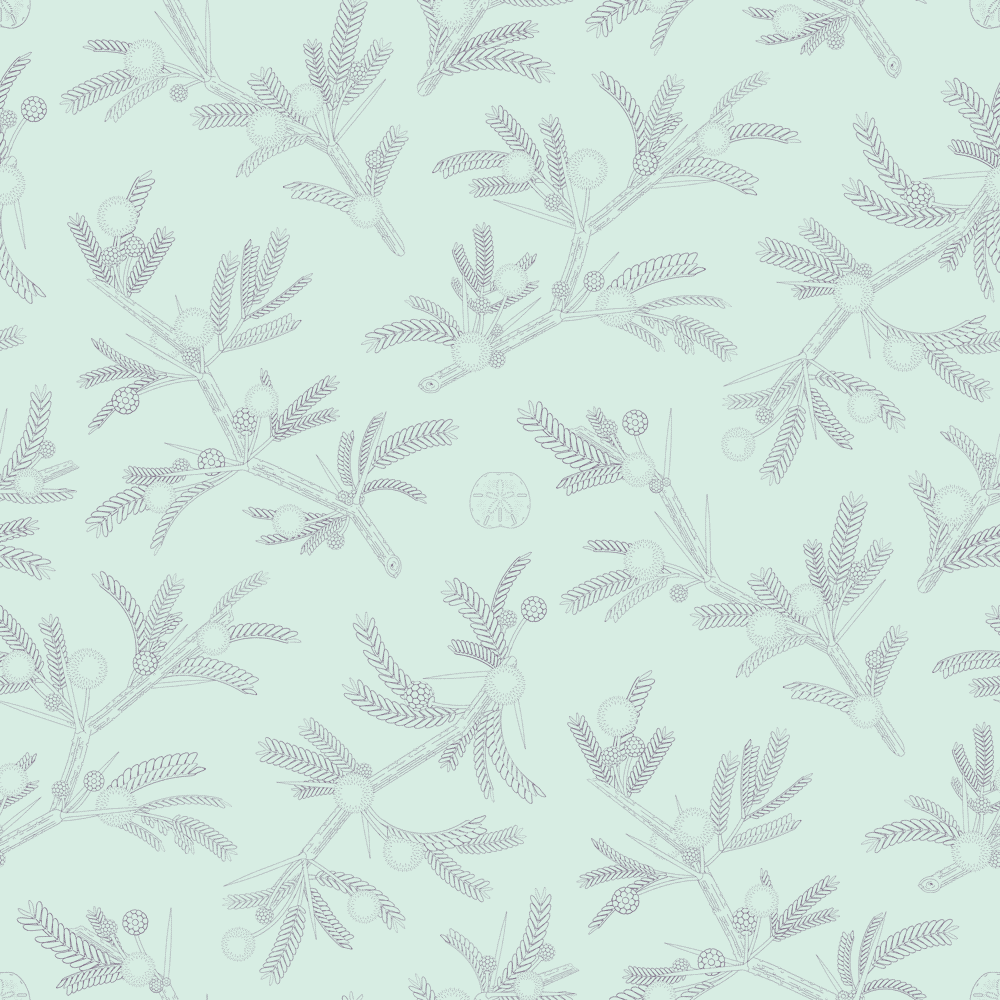
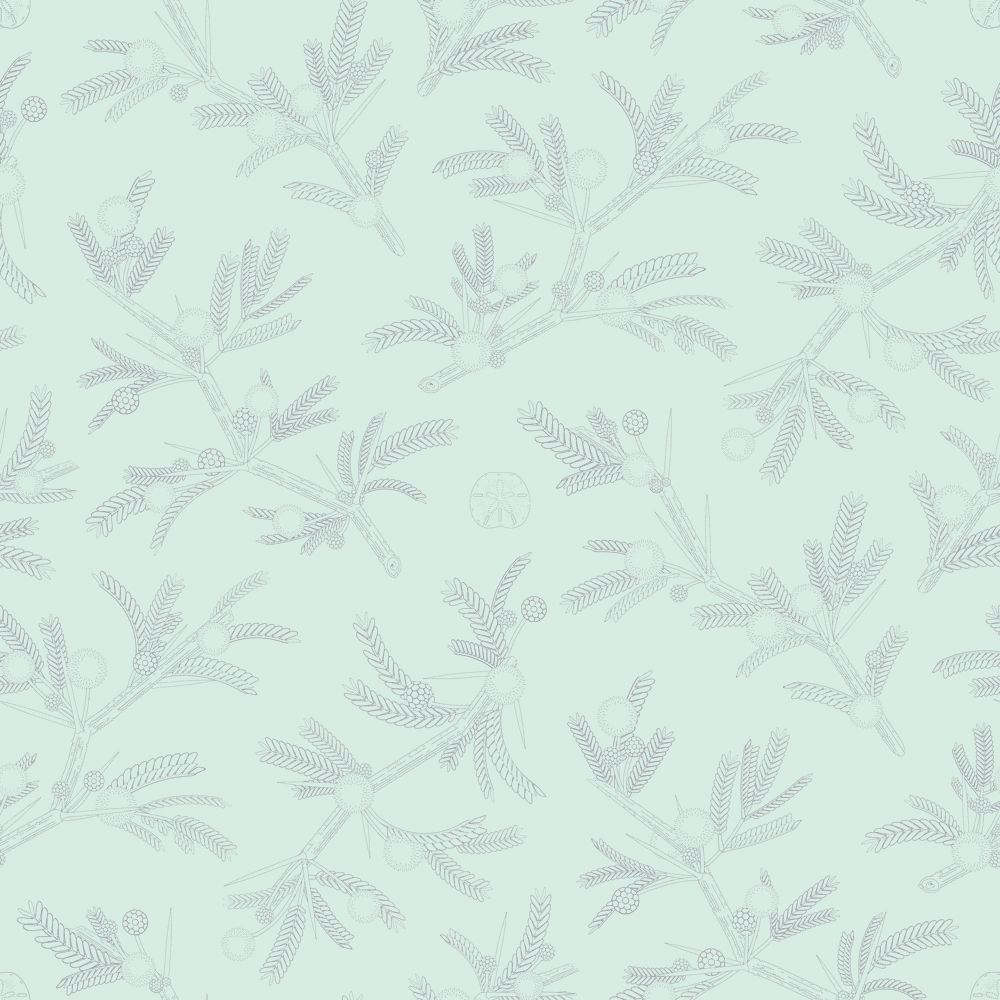
bg tile

diff --git a/index.html b/index.html
@@ -93,8 +93,48 @@
 </div>
 
 <section class="clearfix max-width-4 mx-auto mt4 center mb4 py4 h3">
+	<p class="mt0 mb0 bold uppercase">While in Mexico</p>
+	<p class="mt0 mb1 light">Remember</p>
+	<p class="mt0 mb4 light"><img src="resort-icon.svg" width="24" height="24" alt=""></p>
+	<div class="clearfix">
+	<div class="sm-col sm-col-6 px4 rule">
+		<p class="bold uppercase mb0">Our Festivities</p>
+		<p class="mt1 mb3 light">take place in La Esmeralda. Join us for all-white attire BBQ Feb 3rd, 6-9pm at the pool!</p>
+		<p class="bold uppercase mb0">Shopping in Cozumel</p>
+		<p class="mt1 mb3 light">is a short boat ride away. Pesos ensure the best prices — find a currency exchange in the airport.</p>
+		<p class="bold uppercase mb0">Your presence is our gift</p>
+		<p class="mt1 mb3 light">but if you insist, you can send us a gift from <a href="gift">mikeandmisa.com/gift</a></p>
+	</div>
+	<div class="sm-col sm-col-6 px4">
+		<p class="bold uppercase mb0">Set Up Restaurant Reservations</p>
+		<p class="mt1 mb3 light">and schedule your ride to the airport for your return flight. The concierge can point you in the right direction upon arrival at the resort.</p>
+		<p class="bold uppercase mb0">Look out for scammers</p>
+		<p class="mt1 mb3 light">when exiting the airport. Do <u>not</u> give strangers any information. No additional payment is needed after you land, unless you wish to tip. Your ride will be waiting just outside the airport. Look for a Funjet shirt.</p>
+	</div>
+	</div>
+	<div class="clearfix px4">
+	<p class="bold uppercase mb0 pt2">Can't Join us in Mexico?</p>
+		<p class="mt1 mb3 light">We're having a reception in Lubbock. <a href="#">RSVP here</a>.</p>
+	</div>
+</section>
+
+<section class="blocks">
+	<div class="clearfix block center py4">
+		<div class="cover" style="background-image:url(trees.jpg);"></div>
+		<p class="h3 mt4 mb3 light px3">We're not registered, but if you insist</p>
+	    <a href="gift" class="button bold uppercase mb4 gift">Send a gift</a>
+	</div>
+	<div class="clearfix block center py4">
+		<div class="cover" style="background-image:url(wall.jpg);"></div>
+		<p class="h3 mt4 mb3 light px3">Can't make Mexico, but want to join us in Lubbock?</p>
+	    <a href="gift" class="button bold uppercase mb4">RSVP for Lubbock Reception</a>
+	</div>
+</section>
+
+<section class="clearfix max-width-4 mx-auto mt4 center mb4 py4 h3">
 	<p class="mt0 mb0 bold uppercase">PRIOR TO TRAVEL</p>
-	<p class="mt0 mb4 light">Remember:</p>
+	<p class="mt0 mb1 light">Remember</p>
+	<p class="mt0 mb4 light"><img src="travel-icon.svg" width="24" height="24" alt=""></p>
 	<div class="clearfix">
 	<div class="sm-col sm-col-6 px4 rule">
 		<p class="bold uppercase mb0">YOUR NAME ON YOUR PASSPORT</p>
@@ -121,26 +161,13 @@
 		</div>
 	</div>
 	</div>
-	<div class="clearfix">
+	<div class="clearfix px4">
 	<p class="bold uppercase mb0 pt2">SUSIE BULLMORE: (806) 798-5999</p>
 		<p class="mt1 mb3 light">Make Arrangements by Phone</p>
 	</div>
 </section>
 
-<section class="blocks">
-	<div class="clearfix block center py4">
-		<div class="cover" style="background-image:url(trees.jpg);"></div>
-		<p class="h3 mt4 mb3 light px3">We're not registered, but if you insist</p>
-	    <a href="gift" class="button bold uppercase mb4 gift">Send a gift</a>
-	</div>
-	<div class="clearfix block center py4">
-		<div class="cover" style="background-image:url(wall.jpg);"></div>
-		<p class="h3 mt4 mb3 light px3">Can't make Mexico, but want to join us in Lubbock?</p>
-	    <a href="gift" class="button bold uppercase mb4">RSVP for Lubbock Reception</a>
-	</div>
-</section>
-
-<a href="#" class="close h5 m0 magenta"><svg width="10" height="10" class="js-geomicon geomicon" data-icon="triangleLeft" viewBox="0 0 32 32" style="fill:currentcolor"><title>triangleLeft icon</title><path d="M24 4 V28 L6 16 z"></path></svg> BACK</a>
+<a href="#" class="close h5 m0 magenta"><svg width="10" height="10" class="js-geomicon geomicon" data-icon="triangleLeft" viewBox="0 0 32 32" style="fill:currentcolor"><title>triangleLeft icon</title><path d="M24 4 V28 L6 16 z"></path></svg> BACK TO MAIN</a>
 <iframe src="join/index.htm" frameborder="0" class="join"></iframe>
 <iframe src="resort/index.htm" frameborder="0" class="resort"></iframe>
 <iframe src="gift/index.htm" frameborder="0" class="gift"></iframe>

diff --git a/style.css b/style.css
@@ -29,7 +29,7 @@ body{margin:0; color:#B29A74; padding-bottom:80px;}
 
 .hero{height: 100vh; background-size:cover; background-position: center center;}
 
-.mint-bg{background:#D7EDE3 url(pattern.png); background-size:50%; color:#673050;}
+.mint-bg{background:#D7EDE3 url(pattern.png); background-size:650px; color:#673050;}
 
 a.button{padding:10px 15px; color:#fff; text-decoration: none; background:#673050; display: inline-block;}
 a.button.h1, a.button.h2, a.button.h3{padding:30px;}
@@ -41,7 +41,7 @@ a.button.h1, a.button.h2, a.button.h3{padding:30px;}
 .blocks .cover{padding-top: 56.5%;}
 
 iframe{position: fixed; width:100%; height:100%; top:0; left:0; right:0; bottom:0; display: none;}
-.close{position: fixed; top:15px; left:0; right:0; width:100%; text-align: center; z-index: 100; display: none; text-decoration: none; text-indent: -10px;}
+.close{position: fixed; top:20px; left:0; right:0; width:100%; text-align: center; z-index: 100; display: none; text-decoration: none; text-indent: -10px;}
 
 .vertical {
 	transform: rotate(90deg);
@@ -71,7 +71,8 @@ iframe{position: fixed; width:100%; height:100%; top:0; left:0; right:0; bottom:
 	a.button.h1, a.button.h2, a.button.h3{font-size:14px; padding:20px 30px;}
 	a.button.block{width:100%; box-sizing:border-box;}
 
-	.header a.bold{width:100%; text-align: center !important; width:140px;}
+	.header a.bold{width:100%; width:140px;}
+	.header div:first-child a, .header div:last-child a{text-align: center;}
 	.header div:first-child{padding:0; text-align: center;}
 	.header div:last-child{padding:0; text-align: center;}
 }
